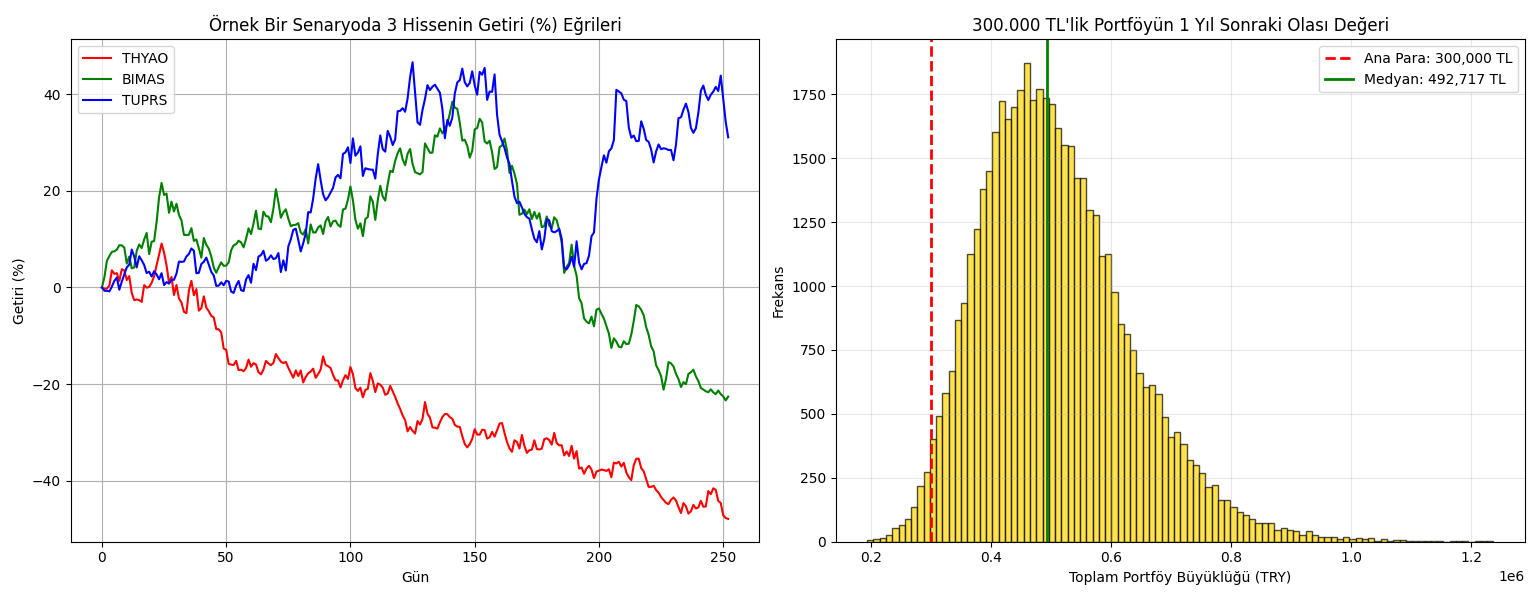
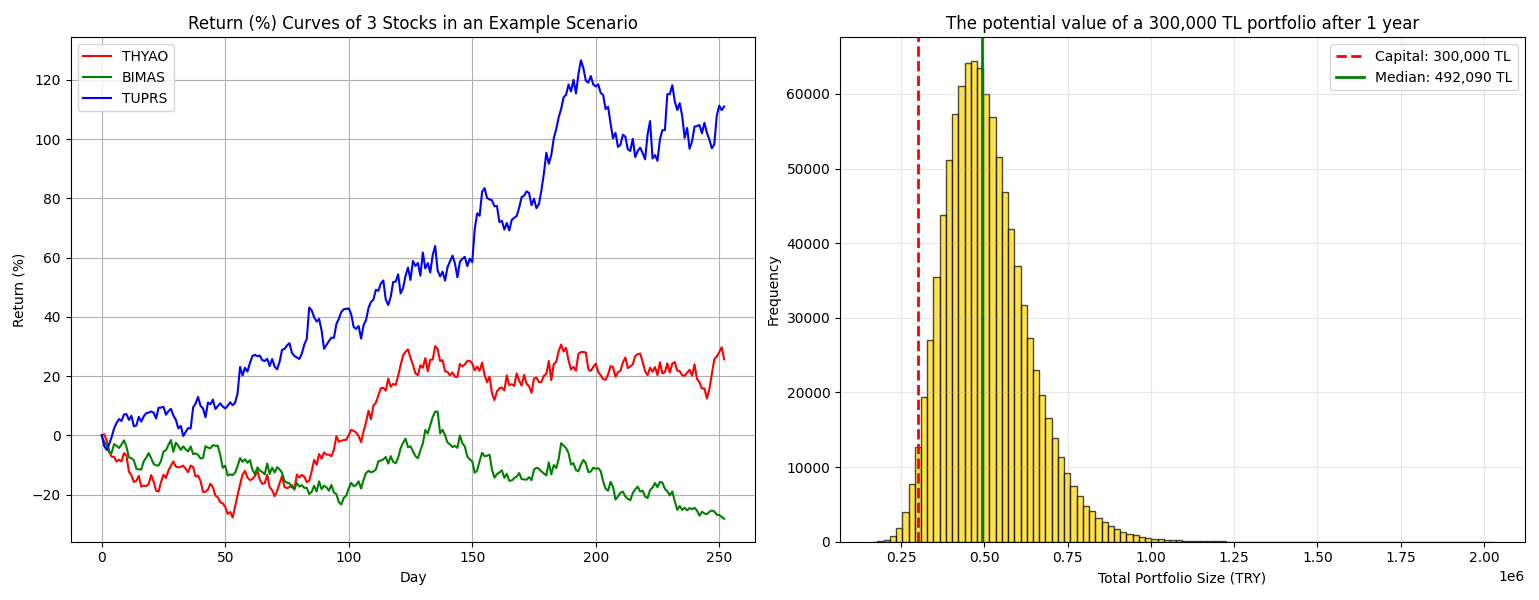
Add multi-asset portfolio simulation with Cholesky correlation
- Implemented GBM with Euler-Maruyama discretization
- Added Cholesky decomposition for inter-asset correlation modeling
- 1,000,000 scenario Monte Carlo on THYAO, BIMAS, TUPRS
- Portfolio metrics: median +63.98%, loss probability 2.00%
- Added 95%/99% VaR analysis
- Updated research report (LaTeX)

diff --git a/src/gbmmultipleportfolio.py b/src/gbmmultipleportfolio.py
@@ -40,7 +40,7 @@ for t in range(1, N+1):
     Z_corr = np.dot(L,Z_ind)
 
     for i in range(len(tickers)):
-        S[t,i,:] = S[t-1,i,:] * np.exp((mu[i]-0.5*sigma[i]**2)*dt+sigma[i]*np.sqrt(dt)*Z_corr[i,:])
+        S[t,i,:] = S[t-1,i,:] * np.exp((mu.iloc[i]-0.5*sigma.iloc[i]**2)*dt+sigma[i]*np.sqrt(dt)*Z_corr[i,:])
 
 starting_money = 300000
 inv_per_stock = starting_money / len(tickers)
@@ -84,3 +84,21 @@ probability_profit_percent50 = (portfolio_end_value > starting_money * 1.5).sum(
 print(f"\nPORTFOLIO RISK ANALYSIS ({M} Senaryo):")
 print(f"The possibility of losing the principal (300,000 TL): %{probability_loss:.2f}")
 print(f"Possibility of Portfolio Growth of 50% (Above 450,000 TL): %{probability_profit_percent50:.2f}")
+
+# --- REPORT METRICS ---
+print("\n--- REPORT METRICS ---")
+print(f"Initial Prices (S0): THYAO={S_initial[0]:.2f}, BIMAS={S_initial[1]:.2f}, TUPRS={S_initial[2]:.2f}")
+print(f"Annual Return (mu)  : THYAO={mu[0]*100:.1f}%, BIMAS={mu[1]*100:.1f}%, TUPRS={mu[2]*100:.1f}%")
+print(f"Annual Volatility   : THYAO={sigma[0]*100:.1f}%, BIMAS={sigma[1]*100:.1f}%, TUPRS={sigma[2]*100:.1f}%")
+
+var_95 = np.percentile(portfolio_end_value, 5)
+var_99 = np.percentile(portfolio_end_value, 1)
+portfolio_vol = portfolio_end_value.std() / starting_money * 100
+avg_individual_vol = float(sigma.mean()) * 100
+
+print(f"\nMedian Portfolio Value      : {medyan_portfoy:,.0f} TL")
+print(f"95% VaR (lower bound)       : {var_95:,.0f} TL  → max loss: {starting_money - var_95:,.0f} TL")
+print(f"99% VaR (lower bound)       : {var_99:,.0f} TL")
+print(f"Portfolio Volatility        : {portfolio_vol:.1f}%")
+print(f"Avg. Individual Volatility  : {avg_individual_vol:.1f}%")
+print(f"Diversification Benefit     : {avg_individual_vol - portfolio_vol:.1f}% reduction in volatility")
